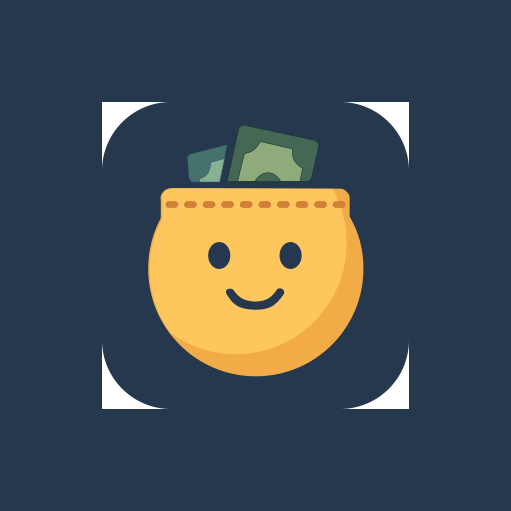
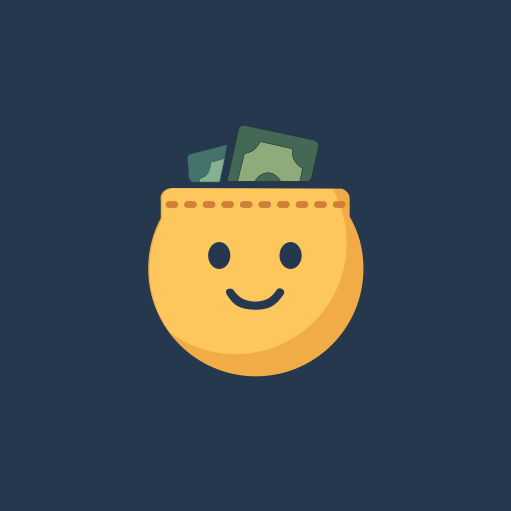
Auto-generated commit

diff --git a/404.html b/404.html
@@ -20,5 +20,5 @@
 <style>:root{--background-primary:#fafafa;--background-secondary:#f4f4f5;--background-elevated:#ffffff;--background-overlay:rgba(0, 0, 0, .4);--surface:#ffffff;--surface-alternate:#f4f4f5;--border-default:#e4e4e7;--border-focus:#06b5f1;--text-primary:#18181b;--text-secondary:#71717a;--text-disabled:#a1a1aa;--text-inverse:#ffffff;--text-on-primary:#ffffff;--color-primary:#0093ce;--color-primary-hover:#0075a7;--color-primary-subtle:#eff9ff;--color-primary-muted:#dff4ff;--color-success:#16a34a;--color-success-subtle:#dcfce7;--color-warning:#d97706;--color-warning-subtle:#fef3c7;--color-danger:#dc2626;--color-danger-subtle:#fee2e2;--navigation-height:64px;--navigation-background:#ffffff;--navigation-border:#e4e4e7;--radius-small:6px;--radius-medium:10px;--radius-large:16px;--radius-extra-large:24px;--radius-full:9999px;--shadow-small:0 1px 2px rgba(0, 0, 0, .06);--shadow-medium:0 4px 12px rgba(0, 0, 0, .08);--shadow-large:0 8px 24px rgba(0, 0, 0, .1);--space-1:4px;--space-2:8px;--space-3:12px;--space-4:16px;--space-5:20px;--space-6:24px;--space-8:32px;--space-10:40px;--space-12:48px;--font-family-base:-apple-system, BlinkMacSystemFont, "Segoe UI", system-ui, sans-serif;--font-family-mono:"SF Mono", "Fira Code", "Consolas", monospace;--text-size-extra-small:11px;--text-size-small:13px;--text-size-base:15px;--text-size-medium:17px;--text-size-large:20px;--text-size-extra-large:24px;--text-size-display:32px;--max-content-width:480px;--tap-target-min:44px;--safe-area-bottom:env(safe-area-inset-bottom, 0px)}@media(prefers-color-scheme:dark){:root{--background-primary:#09090b;--background-secondary:#18181b;--background-elevated:#18181b;--surface:#27272a;--surface-alternate:#18181b;--border-default:#3f3f46;--border-focus:#4dd2ff;--text-primary:#fafafa;--text-secondary:#a1a1aa;--text-disabled:#52525b;--color-primary:#06b5f1;--color-primary-hover:#4dd2ff;--color-primary-subtle:rgba(6, 181, 241, .12);--color-primary-muted:rgba(6, 181, 241, .18);--color-success-subtle:rgba(22, 163, 74, .15);--color-warning-subtle:rgba(217, 119, 6, .15);--color-danger-subtle:rgba(220, 38, 38, .15);--navigation-background:#18181b;--navigation-border:#27272a;--shadow-small:0 1px 2px rgba(0, 0, 0, .3);--shadow-medium:0 4px 12px rgba(0, 0, 0, .4);--shadow-large:0 8px 24px rgba(0, 0, 0, .5)}}*,*:before,*:after{box-sizing:border-box}html,body{margin:0;padding:0;height:100%;-webkit-text-size-adjust:100%;-webkit-tap-highlight-color:transparent}body{font-family:var(--font-family-base);font-size:var(--text-size-base);line-height:1.5;color:var(--text-primary);background:var(--background-primary);-webkit-font-smoothing:antialiased;-moz-osx-font-smoothing:grayscale;text-rendering:optimizeLegibility}app-root{display:block;min-height:100dvh}@media(prefers-reduced-motion:reduce){*,*:before,*:after{animation-duration:.01ms!important;animation-iteration-count:1!important;transition-duration:.01ms!important;scroll-behavior:auto!important}}</style><link rel="stylesheet" href="styles-ZRA6W42Y.css" media="print" onload="this.media='all'"><noscript><link rel="stylesheet" href="styles-ZRA6W42Y.css"></noscript></head>
 <body>
   <app-root></app-root>
-<link rel="modulepreload" href="chunk-CYGUBBZH.js"><link rel="modulepreload" href="chunk-UAY6CAQH.js"><link rel="modulepreload" href="chunk-EBSMTEHO.js"><link rel="modulepreload" href="chunk-QTZCCWIY.js"><link rel="modulepreload" href="chunk-LXDPUJYF.js"><link rel="modulepreload" href="chunk-ED2R5HV5.js"><link rel="modulepreload" href="chunk-WOTAIYQ7.js"><link rel="modulepreload" href="chunk-U6IYMO7K.js"><link rel="modulepreload" href="chunk-SVHVGA3X.js"><script src="main-XETEXEKY.js" type="module"></script></body>
+<link rel="modulepreload" href="chunk-CYGUBBZH.js"><link rel="modulepreload" href="chunk-UAY6CAQH.js"><link rel="modulepreload" href="chunk-EBSMTEHO.js"><link rel="modulepreload" href="chunk-QTZCCWIY.js"><link rel="modulepreload" href="chunk-LXDPUJYF.js"><link rel="modulepreload" href="chunk-ED2R5HV5.js"><link rel="modulepreload" href="chunk-WOTAIYQ7.js"><link rel="modulepreload" href="chunk-U6IYMO7K.js"><link rel="modulepreload" href="chunk-SVHVGA3X.js"><script src="main-BCDV52KX.js" type="module"></script></body>
 </html>

diff --git a/index.html b/index.html
@@ -20,5 +20,5 @@
 <style>:root{--background-primary:#fafafa;--background-secondary:#f4f4f5;--background-elevated:#ffffff;--background-overlay:rgba(0, 0, 0, .4);--surface:#ffffff;--surface-alternate:#f4f4f5;--border-default:#e4e4e7;--border-focus:#06b5f1;--text-primary:#18181b;--text-secondary:#71717a;--text-disabled:#a1a1aa;--text-inverse:#ffffff;--text-on-primary:#ffffff;--color-primary:#0093ce;--color-primary-hover:#0075a7;--color-primary-subtle:#eff9ff;--color-primary-muted:#dff4ff;--color-success:#16a34a;--color-success-subtle:#dcfce7;--color-warning:#d97706;--color-warning-subtle:#fef3c7;--color-danger:#dc2626;--color-danger-subtle:#fee2e2;--navigation-height:64px;--navigation-background:#ffffff;--navigation-border:#e4e4e7;--radius-small:6px;--radius-medium:10px;--radius-large:16px;--radius-extra-large:24px;--radius-full:9999px;--shadow-small:0 1px 2px rgba(0, 0, 0, .06);--shadow-medium:0 4px 12px rgba(0, 0, 0, .08);--shadow-large:0 8px 24px rgba(0, 0, 0, .1);--space-1:4px;--space-2:8px;--space-3:12px;--space-4:16px;--space-5:20px;--space-6:24px;--space-8:32px;--space-10:40px;--space-12:48px;--font-family-base:-apple-system, BlinkMacSystemFont, "Segoe UI", system-ui, sans-serif;--font-family-mono:"SF Mono", "Fira Code", "Consolas", monospace;--text-size-extra-small:11px;--text-size-small:13px;--text-size-base:15px;--text-size-medium:17px;--text-size-large:20px;--text-size-extra-large:24px;--text-size-display:32px;--max-content-width:480px;--tap-target-min:44px;--safe-area-bottom:env(safe-area-inset-bottom, 0px)}@media(prefers-color-scheme:dark){:root{--background-primary:#09090b;--background-secondary:#18181b;--background-elevated:#18181b;--surface:#27272a;--surface-alternate:#18181b;--border-default:#3f3f46;--border-focus:#4dd2ff;--text-primary:#fafafa;--text-secondary:#a1a1aa;--text-disabled:#52525b;--color-primary:#06b5f1;--color-primary-hover:#4dd2ff;--color-primary-subtle:rgba(6, 181, 241, .12);--color-primary-muted:rgba(6, 181, 241, .18);--color-success-subtle:rgba(22, 163, 74, .15);--color-warning-subtle:rgba(217, 119, 6, .15);--color-danger-subtle:rgba(220, 38, 38, .15);--navigation-background:#18181b;--navigation-border:#27272a;--shadow-small:0 1px 2px rgba(0, 0, 0, .3);--shadow-medium:0 4px 12px rgba(0, 0, 0, .4);--shadow-large:0 8px 24px rgba(0, 0, 0, .5)}}*,*:before,*:after{box-sizing:border-box}html,body{margin:0;padding:0;height:100%;-webkit-text-size-adjust:100%;-webkit-tap-highlight-color:transparent}body{font-family:var(--font-family-base);font-size:var(--text-size-base);line-height:1.5;color:var(--text-primary);background:var(--background-primary);-webkit-font-smoothing:antialiased;-moz-osx-font-smoothing:grayscale;text-rendering:optimizeLegibility}app-root{display:block;min-height:100dvh}@media(prefers-reduced-motion:reduce){*,*:before,*:after{animation-duration:.01ms!important;animation-iteration-count:1!important;transition-duration:.01ms!important;scroll-behavior:auto!important}}</style><link rel="stylesheet" href="styles-ZRA6W42Y.css" media="print" onload="this.media='all'"><noscript><link rel="stylesheet" href="styles-ZRA6W42Y.css"></noscript></head>
 <body>
   <app-root></app-root>
-<link rel="modulepreload" href="chunk-CYGUBBZH.js"><link rel="modulepreload" href="chunk-UAY6CAQH.js"><link rel="modulepreload" href="chunk-EBSMTEHO.js"><link rel="modulepreload" href="chunk-QTZCCWIY.js"><link rel="modulepreload" href="chunk-LXDPUJYF.js"><link rel="modulepreload" href="chunk-ED2R5HV5.js"><link rel="modulepreload" href="chunk-WOTAIYQ7.js"><link rel="modulepreload" href="chunk-U6IYMO7K.js"><link rel="modulepreload" href="chunk-SVHVGA3X.js"><script src="main-XETEXEKY.js" type="module"></script></body>
+<link rel="modulepreload" href="chunk-CYGUBBZH.js"><link rel="modulepreload" href="chunk-UAY6CAQH.js"><link rel="modulepreload" href="chunk-EBSMTEHO.js"><link rel="modulepreload" href="chunk-QTZCCWIY.js"><link rel="modulepreload" href="chunk-LXDPUJYF.js"><link rel="modulepreload" href="chunk-ED2R5HV5.js"><link rel="modulepreload" href="chunk-WOTAIYQ7.js"><link rel="modulepreload" href="chunk-U6IYMO7K.js"><link rel="modulepreload" href="chunk-SVHVGA3X.js"><script src="main-BCDV52KX.js" type="module"></script></body>
 </html>

diff --git a/main-BCDV52KX.js b/main-BCDV52KX.js
@@ -1,0 +1,1 @@
+import{a as W}from"./chunk-CYGUBBZH.js";import{a as Fe}from"./chunk-UAY6CAQH.js";import{a as Ne}from"./chunk-EBSMTEHO.js";import{a as ye,b as _e,c as we,d as xe,f as Ee,g as D,h as Se,i as Me,j as Pe,k as De,l as ke}from"./chunk-QTZCCWIY.js";import{a as Re}from"./chunk-LXDPUJYF.js";import{b as Ie,c as Te}from"./chunk-ED2R5HV5.js";import{b as Ae}from"./chunk-WOTAIYQ7.js";import{b as Oe}from"./chunk-U6IYMO7K.js";import{$ as ae,$a as me,Aa as C,D as T,Fa as se,G as x,H as te,Ha as Y,I as O,Ja as y,K as ne,Ka as _,L as q,M as r,N as oe,Na as pe,Oa as ce,Pa as le,Qa as c,R as g,Ra as l,S as v,Sa as j,T as ie,Ta as B,Ua as z,Wa as N,Y as re,Ya as S,Za as de,_a as f,a as ee,aa as E,ab as ue,f as L,g as V,jb as s,kb as M,o as h,pa as m,pb as fe,qb as he,rb as ge,tb as ve,u as b,v as I,vb as be,y as P,zb as Ce}from"./chunk-SVHVGA3X.js";var J="Service workers are disabled or not supported by this browser",k=class{serviceWorker;worker;registration;events;constructor(n,t){if(this.serviceWorker=n,!n)this.worker=this.events=this.registration=new L(i=>i.error(new x(5601,!1)));else{let i=null,o=new V;this.worker=new L(u=>(i!==null&&u.next(i),o.subscribe(U=>u.next(U))));let p=()=>{let{controller:u}=n;u!==null&&(i=u,o.next(i))};n.addEventListener("controllerchange",p),p(),this.registration=this.worker.pipe(T(()=>n.getRegistration().then(u=>{if(!u)throw new x(5601,!1);return u})));let a=new V;this.events=a.asObservable();let w=u=>{let{data:U}=u;U?.type&&a.next(U)};n.addEventListener("message",w),t?.get(Y,null,{optional:!0})?.onDestroy(()=>{n.removeEventListener("controllerchange",p),n.removeEventListener("message",w)})}}postMessage(n,t){return new Promise(i=>{this.worker.pipe(P(1)).subscribe(o=>{o.postMessage(ee({action:n},t)),i()})})}postMessageWithOperation(n,t,i){let o=this.waitForOperationCompleted(i),p=this.postMessage(n,t);return Promise.all([p,o]).then(([,a])=>a)}generateNonce(){return Math.round(Math.random()*1e7)}eventsOfType(n){let t;return typeof n=="string"?t=i=>i.type===n:t=i=>n.includes(i.type),this.events.pipe(I(t))}nextEventOfType(n){return this.eventsOfType(n).pipe(P(1))}waitForOperationCompleted(n){return new Promise((t,i)=>{this.eventsOfType("OPERATION_COMPLETED").pipe(I(o=>o.nonce===n),P(1),h(o=>{if(o.result!==void 0)return o.result;throw new Error(o.error)})).subscribe({next:t,error:i})})}get isEnabled(){return!!this.serviceWorker}},We=(()=>{class e{sw;messages;notificationClicks;notificationCloses;pushSubscriptionChanges;subscription;get isEnabled(){return this.sw.isEnabled}pushManager=null;subscriptionChanges=new V;constructor(t){if(this.sw=t,!t.isEnabled){this.messages=b,this.notificationClicks=b,this.notificationCloses=b,this.pushSubscriptionChanges=b,this.subscription=b;return}this.messages=this.sw.eventsOfType("PUSH").pipe(h(o=>o.data)),this.notificationClicks=this.sw.eventsOfType("NOTIFICATION_CLICK").pipe(h(o=>o.data)),this.notificationCloses=this.sw.eventsOfType("NOTIFICATION_CLOSE").pipe(h(o=>o.data)),this.pushSubscriptionChanges=this.sw.eventsOfType("PUSH_SUBSCRIPTION_CHANGE").pipe(h(o=>o.data)),this.pushManager=this.sw.registration.pipe(h(o=>o.pushManager));let i=this.pushManager.pipe(T(o=>o.getSubscription()));this.subscription=new L(o=>{let p=i.subscribe(o),a=this.subscriptionChanges.subscribe(o);return()=>{p.unsubscribe(),a.unsubscribe()}})}requestSubscription(t){if(!this.sw.isEnabled||this.pushManager===null)return Promise.reject(new Error(J));let i={userVisibleOnly:!0},o=this.decodeBase64(t.serverPublicKey.replace(/_/g,"/").replace(/-/g,"+")),p=new Uint8Array(new ArrayBuffer(o.length));for(let a=0;a<o.length;a++)p[a]=o.charCodeAt(a);return i.applicationServerKey=p,new Promise((a,w)=>{this.pushManager.pipe(T(A=>A.subscribe(i)),P(1)).subscribe({next:A=>{this.subscriptionChanges.next(A),a(A)},error:w})})}unsubscribe(){if(!this.sw.isEnabled)return Promise.reject(new Error(J));let t=i=>{if(i===null)throw new x(5602,!1);return i.unsubscribe().then(o=>{if(!o)throw new x(5603,!1);this.subscriptionChanges.next(null)})};return new Promise((i,o)=>{this.subscription.pipe(P(1),T(t)).subscribe({next:i,error:o})})}decodeBase64(t){return atob(t)}static \u0275fac=function(i){return new(i||e)(q(k))};static \u0275prov=O({token:e,factory:e.\u0275fac})}return e})(),Q=(()=>{class e{sw;versionUpdates;unrecoverable;get isEnabled(){return this.sw.isEnabled}ongoingCheckForUpdate=null;constructor(t){if(this.sw=t,!t.isEnabled){this.versionUpdates=b,this.unrecoverable=b;return}this.versionUpdates=this.sw.eventsOfType(["VERSION_DETECTED","VERSION_INSTALLATION_FAILED","VERSION_READY","NO_NEW_VERSION_DETECTED"]),this.unrecoverable=this.sw.eventsOfType("UNRECOVERABLE_STATE")}checkForUpdate(){if(!this.sw.isEnabled)return Promise.reject(new Error(J));if(this.ongoingCheckForUpdate)return this.ongoingCheckForUpdate;let t=this.sw.generateNonce();return this.ongoingCheckForUpdate=this.sw.postMessageWithOperation("CHECK_FOR_UPDATES",{nonce:t},t).finally(()=>{this.ongoingCheckForUpdate=null}),this.ongoingCheckForUpdate}activateUpdate(){if(!this.sw.isEnabled)return Promise.reject(new x(5601,!1));let t=this.sw.generateNonce();return this.sw.postMessageWithOperation("ACTIVATE_UPDATE",{nonce:t},t)}static \u0275fac=function(i){return new(i||e)(q(k))};static \u0275prov=O({token:e,factory:e.\u0275fac})}return e})(),Le=new ne("");function Ge(){let e=r(R);if(!("serviceWorker"in navigator&&e.enabled!==!1))return;let n=r(Le),t=r(re),i=r(Y);t.runOutsideAngular(()=>{let o=navigator.serviceWorker,p=()=>o.controller?.postMessage({action:"INITIALIZE"});o.addEventListener("controllerchange",p),i.onDestroy(()=>{o.removeEventListener("controllerchange",p)})}),t.runOutsideAngular(()=>{let o,{registrationStrategy:p}=e;if(typeof p=="function")o=new Promise(a=>p().subscribe(()=>a()));else{let[a,...w]=(p||"registerWhenStable:30000").split(":");switch(a){case"registerImmediately":o=Promise.resolve();break;case"registerWithDelay":o=Ue(+w[0]||0);break;case"registerWhenStable":o=Promise.race([i.whenStable(),Ue(+w[0])]);break;default:throw new x(5600,!1)}}o.then(()=>{i.destroyed||navigator.serviceWorker.register(n,{scope:e.scope,updateViaCache:e.updateViaCache,type:e.type}).catch(a=>console.error(te(5604,!1)))})})}function Ue(e){return new Promise(n=>setTimeout(n,e))}function He(){let e=r(R),n=r(ie),t=!0;return new k(t&&e.enabled!==!1?navigator.serviceWorker:void 0,n)}var R=class{enabled;updateViaCache;type;scope;registrationStrategy};function Ve(e,n={}){return oe([We,Q,{provide:Le,useValue:e},{provide:R,useValue:n},{provide:k,useFactory:He},se(Ge)])}var je=async()=>{let e=r(W),n=r(D);return await e.isSetupComplete()?n.createUrlTree(["/dashboard"]):!0};var d=async()=>{let e=r(W),n=r(D);return await e.isSetupComplete()?!0:n.createUrlTree(["/onboarding"])};var Be=[{path:"",pathMatch:"full",redirectTo:"onboarding"},{path:"onboarding",canActivate:[je],loadComponent:()=>import("./chunk-67BLHZUD.js").then(e=>e.OnboardingComponent)},{path:"dashboard",canActivate:[d],loadComponent:()=>import("./chunk-I3EK65GV.js").then(e=>e.DashboardComponent)},{path:"expenses",canActivate:[d],loadComponent:()=>import("./chunk-C7LIU6AU.js").then(e=>e.ExpensesListComponent)},{path:"credit-cards",canActivate:[d],loadComponent:()=>import("./chunk-A45SIZ5L.js").then(e=>e.PaymentMethodsListComponent)},{path:"credit-cards/:id",canActivate:[d],loadComponent:()=>import("./chunk-GWIYX6IS.js").then(e=>e.CreditCardDetailComponent)},{path:"payment-methods/:id",canActivate:[d],loadComponent:()=>import("./chunk-3ZAHVSPC.js").then(e=>e.PaymentMethodDetailComponent)},{path:"income",canActivate:[d],loadComponent:()=>import("./chunk-T2BL6ICK.js").then(e=>e.IncomeListComponent)},{path:"pockets",canActivate:[d],loadComponent:()=>import("./chunk-6KZ35Y73.js").then(e=>e.PocketsListComponent)},{path:"pockets/:id",canActivate:[d],loadComponent:()=>import("./chunk-ZBWIPT4I.js").then(e=>e.PocketDetailComponent)},{path:"settings",canActivate:[d],loadComponent:()=>import("./chunk-VTXHHEAE.js").then(e=>e.SettingsComponent)},{path:"budgets",canActivate:[d],loadComponent:()=>import("./chunk-HVIIXHLN.js").then(e=>e.BudgetsListComponent)},{path:"history",canActivate:[d],loadComponent:()=>import("./chunk-ATS5PV5Q.js").then(e=>e.HistoryComponent)},{path:"monthly-payments",canActivate:[d],loadComponent:()=>import("./chunk-BFCYKWZD.js").then(e=>e.MonthlyPaymentsListComponent)},{path:"templates",canActivate:[d],loadComponent:()=>import("./chunk-TFII4T63.js").then(e=>e.TemplatesListComponent)},{path:"**",redirectTo:"onboarding"}];var ze={providers:[ae(),ve(),_e(we()),Pe(Be,ke(),De({scrollPositionRestoration:"top",anchorScrolling:"enabled"})),Ve("ngsw-worker.js",{enabled:!0,registrationStrategy:"registerWhenStable:30000"})]};var Ke=e=>({exact:e}),Ze=(e,n)=>n.path;function $e(e,n){if(e&1&&(c(0,"a",1)(1,"span",2),s(2),l(),c(3,"span",3),s(4),l()()),e&2){let t=n.$implicit;le("routerLink",t.path)("routerLinkActiveOptions",fe(4,Ke,t.path==="/dashboard")),m(2),M(t.icon),m(2),M(t.label)}}var G=class e{entries=[{path:"/dashboard",label:"Inicio",icon:"home"},{path:"/expenses",label:"Gastos",icon:"shopping_cart"},{path:"/templates",label:"Gasto r\xE1pido",icon:"bolt"},{path:"/monthly-payments",label:"Pagos",icon:"calendar_month"},{path:"/settings",label:"Ajustes",icon:"settings"}];static \u0275fac=function(t){return new(t||e)};static \u0275cmp=C({type:e,selectors:[["app-bottom-navigation"]],decls:3,vars:0,consts:[["aria-label","Navegaci\xF3n principal",1,"bottom-navigation"],["routerLinkActive","navigation-item--active",1,"navigation-item",3,"routerLink","routerLinkActiveOptions"],["aria-hidden","true",1,"material-symbols-outlined","icon"],[1,"navigation-item__label"]],template:function(t,i){t&1&&(c(0,"nav",0),pe(1,$e,5,6,"a",1,Ze),l()),t&2&&(m(),ce(i.entries))},dependencies:[Se,Me],styles:["[_nghost-%COMP%]{display:contents}.bottom-navigation[_ngcontent-%COMP%]{position:fixed;bottom:0;left:0;right:0;height:calc(var(--navigation-height) + var(--safe-area-bottom));padding-bottom:var(--safe-area-bottom);background:var(--navigation-background);border-top:1px solid var(--navigation-border);display:flex;align-items:center;justify-content:space-around;z-index:100}.navigation-item[_ngcontent-%COMP%]{display:flex;flex-direction:column;align-items:center;gap:3px;padding:var(--space-2) var(--space-3);color:var(--text-secondary);font-size:var(--text-size-extra-small);font-weight:500;cursor:pointer;border-radius:var(--radius-medium);transition:color .15s ease;min-width:48px;min-height:44px;text-decoration:none;background:transparent;border:none;font-family:inherit}.navigation-item[_ngcontent-%COMP%]:hover, .navigation-item[_ngcontent-%COMP%]:focus-visible{color:var(--color-primary)}.navigation-item--active[_ngcontent-%COMP%]{color:var(--color-primary)}.navigation-item__label[_ngcontent-%COMP%]{font-size:var(--text-size-extra-small);font-weight:500;letter-spacing:.01em}"],changeDetection:0})};var H=class e{deferredPrompt=null;canInstall=E(!1);isInstalled=E(!1);constructor(){if(typeof window<"u"&&typeof window.matchMedia=="function"){let n=window.matchMedia("(display-mode: standalone)").matches;this.isInstalled.set(n),window.addEventListener("beforeinstallprompt",t=>{t.preventDefault(),this.deferredPrompt=t,this.canInstall.set(!this.isInstalled())}),window.addEventListener("appinstalled",()=>{this.deferredPrompt=null,this.canInstall.set(!1),this.isInstalled.set(!0)})}}async prompt(){if(!this.deferredPrompt)return;let n=this.deferredPrompt;await n.prompt(),(await n.userChoice).outcome==="accepted"&&this.canInstall.set(!1),this.deferredPrompt=null}static \u0275fac=function(t){return new(t||e)};static \u0275prov=O({token:e,factory:e.\u0275fac,providedIn:"root"})};function qe(e,n){if(e&1){let t=N();B(0,"div",0)(1,"span",1),s(2,"download"),z(),B(3,"span",2),s(4,"Instala Bolsi en tu dispositivo"),z(),B(5,"button",3),de("click",function(){g(t);let o=f();return v(o.installPrompt.prompt())}),s(6," Instalar "),z()()}}var K=class e{installPrompt=r(H);static \u0275fac=function(t){return new(t||e)};static \u0275cmp=C({type:e,selectors:[["app-install-prompt"]],decls:1,vars:1,consts:[["role","status",1,"install-banner"],["aria-hidden","true",1,"material-symbols-outlined","install-banner__icon"],[1,"install-banner__text"],["type","button","aria-label","Instalar aplicaci\xF3n",1,"install-banner__action",3,"click"]],template:function(t,i){t&1&&y(0,qe,7,0,"div",0),t&2&&_(i.installPrompt.canInstall()&&!i.installPrompt.isInstalled()?0:-1)},styles:["[_nghost-%COMP%]{display:block;position:fixed;top:0;left:0;right:0;z-index:100;max-width:var(--max-content-width);margin:0 auto}.install-banner[_ngcontent-%COMP%]{display:flex;align-items:center;gap:var(--space-2);padding:var(--space-2) var(--space-4);background:var(--color-primary-subtle);border-bottom:1px solid var(--color-primary-muted);font-size:var(--text-size-small);color:var(--text-primary)}.install-banner__icon[_ngcontent-%COMP%]{font-size:18px;color:var(--color-primary);flex-shrink:0}.install-banner__text[_ngcontent-%COMP%]{flex:1;font-weight:500}.install-banner__action[_ngcontent-%COMP%]{flex-shrink:0;padding:var(--space-1) var(--space-3);background:var(--color-primary);color:#fff;border:none;border-radius:var(--radius-full);font-size:var(--text-size-extra-small);font-weight:600;cursor:pointer;transition:background .15s ease}.install-banner__action[_ngcontent-%COMP%]:hover{background:var(--color-primary-hover)}"],changeDetection:0})};var Ye=["*"],Z=class e{visible=Ce(!0);static \u0275fac=function(t){return new(t||e)};static \u0275cmp=C({type:e,selectors:[["app-toast"]],hostAttrs:["role","status","aria-live","polite",1,"app-toast"],inputs:{visible:[1,"visible"]},ngContentSelectors:Ye,decls:1,vars:0,template:function(t,i){t&1&&(me(),ue(0))},encapsulation:2,changeDetection:0})};function Je(e,n){e&1&&j(0,"app-install-prompt")}function Qe(e,n){e&1&&j(0,"app-bottom-navigation")}function Xe(e,n){e&1&&(c(0,"app-toast"),s(1),l()),e&2&&(m(),M(n))}function et(e,n){if(e&1){let t=N();c(0,"app-bottom-sheet",2),S("close",function(){g(t);let o=f();return v(o.dismissCutoff())}),c(1,"p",3),s(2," \xBFCerrar per\xEDodo de "),c(3,"strong"),s(4),l(),s(5,"? "),l(),c(6,"p",4),s(7," Saldo al corte: "),c(8,"strong"),s(9),he(10,"mexicanCurrency"),l()(),c(11,"p",5),s(12," Si falta registrar alg\xFAn gasto, cancela y agr\xE9galo primero. "),l(),c(13,"div",6)(14,"button",7),S("click",function(){g(t);let o=f();return v(o.dismissCutoff())}),s(15," Cancelar "),l(),c(16,"button",8),S("click",function(){g(t);let o=f();return v(o.confirmCutoff())}),s(17," Cerrar per\xEDodo "),l()()()}if(e&2){let t=f();m(4),M(t.cutoffCard().name),m(5),M(ge(10,2,t.cutoffAmount()))}}function tt(e,n){if(e&1){let t=N();c(0,"app-bottom-sheet",9),S("close",function(){g(t);let o=f();return v(o.dismissUpdate())}),c(1,"p",10),s(2,"\xBFDesea actualizar ahora?"),l(),c(3,"div",6)(4,"button",7),S("click",function(){g(t);let o=f();return v(o.dismissUpdate())}),s(5," No, m\xE1s tarde "),l(),c(6,"button",8),S("click",function(){g(t);let o=f();return v(o.applyUpdate())}),s(7," S\xED "),l()()()}}var $=class e{router=r(D);toast=r(Re);creditCardStatement=r(Ne);paymentMethodService=r(Ae);swUpdate=r(Q);currentUrl=Fe(this.router.events.pipe(I(n=>n instanceof xe),h(n=>n.urlAfterRedirects)),{initialValue:this.router.url});showNavigation=be(()=>{let n=this.currentUrl();return!n.startsWith("/onboarding")&&n!=="/"&&n!==""});toastMessage=this.toast.message;cutoffCard=E(null);cutoffAmount=E(0);updateAvailable=E(!1);async ngOnInit(){await this.checkCutoffs(),this.checkForUpdates()}checkForUpdates(){this.swUpdate.isEnabled&&this.swUpdate.versionUpdates.subscribe(n=>{n.type==="VERSION_READY"&&this.updateAvailable.set(!0)})}applyUpdate(){window.location.reload()}dismissUpdate(){this.updateAvailable.set(!1)}async checkCutoffs(){try{let n=await this.paymentMethodService.getAll(),t=new Date;for(let i of n)if(i.type==="credit"&&this.creditCardStatement.needsCutoff(i,t)){let o=i.statementClosingDay??1,p=this.creditCardStatement.getPreviousCutoffPeriod(o,t),a=await this.creditCardStatement.calculatePeriodCharges(i,p,t);this.cutoffCard.set(i),this.cutoffAmount.set(Math.round(a*100)/100);break}}catch(n){console.error("Cutoff check error",n)}}async confirmCutoff(){let n=this.cutoffCard();if(n){try{let t=new Date;await this.creditCardStatement.processCutoff(n,t),this.toast.show(`Per\xEDodo de ${n.name} cerrado.`)}catch(t){this.toast.show(t instanceof Error?t.message:"No se pudo cerrar el per\xEDodo.")}this.cutoffCard.set(null),this.cutoffAmount.set(0)}}dismissCutoff(){this.cutoffCard.set(null),this.cutoffAmount.set(0)}static \u0275fac=function(t){return new(t||e)};static \u0275cmp=C({type:e,selectors:[["app-root"]],decls:6,vars:5,consts:[["title","Cerrar per\xEDodo de tarjeta"],["title","Nueva versi\xF3n de Bolsi disponible"],["title","Cerrar per\xEDodo de tarjeta",3,"close"],[1,"cutoff-message"],[1,"cutoff-amount"],[1,"cutoff-hint"],[1,"modal-actions"],["appButton","","variant","secondary","type","button",3,"click"],["appButton","","variant","primary","type","button",3,"click"],["title","Nueva versi\xF3n de Bolsi disponible",3,"close"],[1,"update-message"]],template:function(t,i){if(t&1&&(y(0,Je,1,0,"app-install-prompt"),j(1,"router-outlet"),y(2,Qe,1,0,"app-bottom-navigation"),y(3,Xe,2,1,"app-toast"),y(4,et,18,4,"app-bottom-sheet",0),y(5,tt,8,0,"app-bottom-sheet",1)),t&2){let o;_(i.showNavigation()?0:-1),m(2),_(i.showNavigation()?2:-1),m(),_((o=i.toastMessage())?3:-1,o),m(),_(i.cutoffCard()?4:-1),m(),_(i.updateAvailable()?5:-1)}},dependencies:[G,Ie,Te,K,Ee,Z,Oe],styles:["[_nghost-%COMP%]{display:block;min-height:100dvh;background:var(--background-primary)}.cutoff-message[_ngcontent-%COMP%]{margin:0 0 var(--space-2);font-size:var(--text-size-base);color:var(--text-primary)}.cutoff-amount[_ngcontent-%COMP%]{margin:0 0 var(--space-2);font-size:var(--text-size-large);font-weight:700;font-family:var(--font-family-mono);color:var(--color-primary)}.cutoff-hint[_ngcontent-%COMP%]{margin:0 0 var(--space-3);font-size:var(--text-size-small);color:var(--text-secondary)}.modal-actions[_ngcontent-%COMP%]{display:flex;justify-content:flex-end;gap:var(--space-2);margin-top:var(--space-2)}.update-message[_ngcontent-%COMP%]{margin:0 0 var(--space-3);font-size:var(--text-size-base);color:var(--text-primary)}"],changeDetection:0})};ye($,ze).catch(e=>console.error(e));